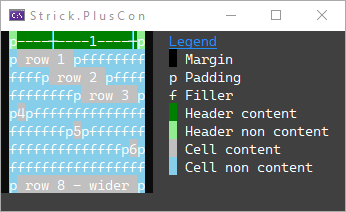
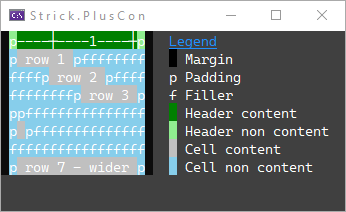
Grid: fix with HasContent and "empty" content; unit tests; doc updates

Changed region(s): [[0.0, 0.6509, 0.4624, 0.934], [0.0289, 0.4811, 0.1156, 0.6792], [0.1734, 0.566, 0.2601, 0.6792]]

diff --git a/Strick.PlusCon.Test/GridTests.cs b/Strick.PlusCon.Test/GridTests.cs
@@ -1,4 +1,6 @@
-using Strick.PlusCon.Models;
+using Microsoft.VisualStudio.TestTools.UnitTesting;
+
+using Strick.PlusCon.Models;
 
 using static Strick.PlusCon.Test.Expectations;
 
@@ -57,24 +59,24 @@ public class GridTests
 		CheckGridState(g, 2, 2);
 		Assert.AreEqual(7, g.Width);
 
-		CheckCellState(g.Rows[0].Cells[0], 0, 0, "", g.CellStyle, g.CellContentStyle, g.Columns[0].CellLayout);
+		CheckCellState(g.Rows[0].Cells[0], 0, 0, null, g.CellStyle, g.CellContentStyle, g.Columns[0].CellLayout);
 		g.CellStyle.BackColor = red;
-		CheckCellState(g.Rows[0].Cells[0], 0, 0, "", g.CellStyle, g.CellContentStyle, g.Columns[0].CellLayout);
+		CheckCellState(g.Rows[0].Cells[0], 0, 0, null, g.CellStyle, g.CellContentStyle, g.Columns[0].CellLayout);
 		g.Columns[0].CellStyle = new(green);
-		CheckCellState(g.Rows[0].Cells[0], 0, 0, "", g.Columns[0].CellStyle!, g.CellContentStyle, g.Columns[0].CellLayout);
+		CheckCellState(g.Rows[0].Cells[0], 0, 0, null, g.Columns[0].CellStyle!, g.CellContentStyle, g.Columns[0].CellLayout);
 		g.Rows[0].CellStyle = new(blue);
-		CheckCellState(g.Rows[0].Cells[0], 0, 0, "", g.Rows[0].CellStyle!, g.CellContentStyle, g.Columns[0].CellLayout);
+		CheckCellState(g.Rows[0].Cells[0], 0, 0, null, g.Rows[0].CellStyle!, g.CellContentStyle, g.Columns[0].CellLayout);
 		g.Rows[0].Cells[0].CellStyle = new(white);
-		CheckCellState(g.Rows[0].Cells[0], 0, 0, "", g.Rows[0].Cells[0].CellStyle!, g.CellContentStyle, g.Columns[0].CellLayout);
+		CheckCellState(g.Rows[0].Cells[0], 0, 0, null, g.Rows[0].Cells[0].CellStyle!, g.CellContentStyle, g.Columns[0].CellLayout);
 
 		g.CellContentStyle.BackColor = red;
-		CheckCellState(g.Rows[0].Cells[0], 0, 0, "", g.Rows[0].Cells[0].CellStyle!, g.CellContentStyle, g.Columns[0].CellLayout);
+		CheckCellState(g.Rows[0].Cells[0], 0, 0, null, g.Rows[0].Cells[0].CellStyle!, g.CellContentStyle, g.Columns[0].CellLayout);
 		g.Columns[0].ContentStyle = new(green);
-		CheckCellState(g.Rows[0].Cells[0], 0, 0, "", g.Rows[0].Cells[0].CellStyle!, g.Columns[0].ContentStyle!, g.Columns[0].CellLayout);
+		CheckCellState(g.Rows[0].Cells[0], 0, 0, null, g.Rows[0].Cells[0].CellStyle!, g.Columns[0].ContentStyle!, g.Columns[0].CellLayout);
 		g.Rows[0].ContentStyle = new(blue);
-		CheckCellState(g.Rows[0].Cells[0], 0, 0, "", g.Rows[0].Cells[0].CellStyle!, g.Rows[0].ContentStyle!, g.Columns[0].CellLayout);
+		CheckCellState(g.Rows[0].Cells[0], 0, 0, null, g.Rows[0].Cells[0].CellStyle!, g.Rows[0].ContentStyle!, g.Columns[0].CellLayout);
 		g.Rows[0].Cells[0].ContentStyle = new(white);
-		CheckCellState(g.Rows[0].Cells[0], 0, 0, "", g.Rows[0].Cells[0].CellStyle!, g.Rows[0].Cells[0].ContentStyle!, g.Columns[0].CellLayout);
+		CheckCellState(g.Rows[0].Cells[0], 0, 0, null, g.Rows[0].Cells[0].CellStyle!, g.Rows[0].Cells[0].ContentStyle!, g.Columns[0].CellLayout);
 
 		//g.Columns[0].CellLayout.HorizontalAlignment = HorizontalAlignment.Right;
 		//CheckCellState(g.Rows[0].Cells[0], g.Rows[0].Cells[0].CellStyle!, g.Rows[0].Cells[0].ContentStyle!, g.Columns[0].CellLayout);
@@ -129,7 +131,7 @@ public class GridTests
 		CheckGridState(g, 1, 1);
 		CheckColumnState(c1, 0, "c1", 2, 2, 4);
 		CheckRowState(r1, 0, 1);
-		CheckCellState(r1.Cells[0], 0, 0, "", g.CellStyle, g.CellContentStyle, g.Columns[0].CellLayout);
+		CheckCellState(r1.Cells[0], 0, 0, null, g.CellStyle, g.CellContentStyle, g.Columns[0].CellLayout);
 		r1.Cells[0].Content = "r1-c1";
 		CheckCellState(r1.Cells[0], 0, 0, "r1-c1", g.CellStyle, g.CellContentStyle, g.Columns[0].CellLayout);
 
@@ -138,7 +140,7 @@ public class GridTests
 		CheckColumnState(c2, 1, "c2", 2, 2, 4);
 		CheckRowState(g.Rows[0], 0, 2);
 		CheckCellState(r1.Cells[0], 0, 0, "r1-c1", g.CellStyle, g.CellContentStyle, g.Columns[0].CellLayout);
-		CheckCellState(r1.Cells[1], 0, 1, "", g.CellStyle, g.CellContentStyle, g.Columns[1].CellLayout);
+		CheckCellState(r1.Cells[1], 0, 1, null, g.CellStyle, g.CellContentStyle, g.Columns[1].CellLayout);
 		r1.Cells[1].Content = "r1-c2";
 		CheckCellState(r1.Cells[0], 0, 0, "r1-c1", g.CellStyle, g.CellContentStyle, g.Columns[0].CellLayout);
 		CheckCellState(r1.Cells[1], 0, 1, "r1-c2", g.CellStyle, g.CellContentStyle, g.Columns[1].CellLayout);
@@ -166,9 +168,9 @@ public class GridTests
 		CheckRowState(r1, 0, 2);
 		CheckRowState(r2, 1, 2);
 		CheckCellState(r1.Cells[0], 0, 0, "r1-c1", g.CellStyle, g.CellContentStyle, g.Columns[0].CellLayout);
-		CheckCellState(r1.Cells[1], 0, 1, "", g.CellStyle, g.CellContentStyle, g.Columns[1].CellLayout);
+		CheckCellState(r1.Cells[1], 0, 1, null, g.CellStyle, g.CellContentStyle, g.Columns[1].CellLayout);
 		CheckCellState(r2.Cells[0], 1, 0, "r2-c1", g.CellStyle, g.CellContentStyle, g.Columns[0].CellLayout);
-		CheckCellState(r2.Cells[1], 1, 1, "", g.CellStyle, g.CellContentStyle, g.Columns[1].CellLayout);
+		CheckCellState(r2.Cells[1], 1, 1, null, g.CellStyle, g.CellContentStyle, g.Columns[1].CellLayout);
 
 		Assert.IsTrue(g.Columns.Remove(c1));
 		CheckGridState(g, 1, 2);
@@ -180,17 +182,17 @@ public class GridTests
 		CheckGridState(g, 1, 2);
 		CheckRowState(r1, 0, 1);
 		CheckRowState(r2, 1, 1);
-		CheckCellState(r1.Cells[0], 0, 0, "", g.CellStyle, g.CellContentStyle, g.Columns[0].CellLayout);
-		CheckCellState(r2.Cells[0], 1, 0, "", g.CellStyle, g.CellContentStyle, g.Columns[0].CellLayout);
+		CheckCellState(r1.Cells[0], 0, 0, null, g.CellStyle, g.CellContentStyle, g.Columns[0].CellLayout);
+		CheckCellState(r2.Cells[0], 1, 0, null, g.CellStyle, g.CellContentStyle, g.Columns[0].CellLayout);
 
 		var r3 = g.AddRow();
 		CheckGridState(g, 1, 3);
 		CheckRowState(r1, 0, 1);
 		CheckRowState(r2, 1, 1);
 		CheckRowState(r3, 2, 1);
-		CheckCellState(r1.Cells[0], 0, 0, "", g.CellStyle, g.CellContentStyle, g.Columns[0].CellLayout);
-		CheckCellState(r2.Cells[0], 1, 0, "", g.CellStyle, g.CellContentStyle, g.Columns[0].CellLayout);
-		CheckCellState(r3.Cells[0], 2, 0, "", g.CellStyle, g.CellContentStyle, g.Columns[0].CellLayout);
+		CheckCellState(r1.Cells[0], 0, 0, null, g.CellStyle, g.CellContentStyle, g.Columns[0].CellLayout);
+		CheckCellState(r2.Cells[0], 1, 0, null, g.CellStyle, g.CellContentStyle, g.Columns[0].CellLayout);
+		CheckCellState(r3.Cells[0], 2, 0, null, g.CellStyle, g.CellContentStyle, g.Columns[0].CellLayout);
 
 		g.Rows.Clear();
 		CheckGridState(g, 1, 0);
@@ -229,9 +231,9 @@ public class GridTests
 		var r1 = g.AddRow();
 		CheckGridState(g, 3, 1);
 		CheckRowState(r1, 0, 3);
-		CheckCellState(r1.Cells[0], 0, 0, "", g.CellStyle, g.CellContentStyle, g.Columns[0].CellLayout);
-		CheckCellState(r1.Cells[1], 0, 1, "", g.CellStyle, g.CellContentStyle, g.Columns[1].CellLayout);
-		CheckCellState(r1.Cells[2], 0, 2, "", g.CellStyle, g.CellContentStyle, g.Columns[2].CellLayout);
+		CheckCellState(r1.Cells[0], 0, 0, null, g.CellStyle, g.CellContentStyle, g.Columns[0].CellLayout);
+		CheckCellState(r1.Cells[1], 0, 1, null, g.CellStyle, g.CellContentStyle, g.Columns[1].CellLayout);
+		CheckCellState(r1.Cells[2], 0, 2, null, g.CellStyle, g.CellContentStyle, g.Columns[2].CellLayout);
 
 		r1.Cells[0].Content = "r1-c1";
 		r1.Cells[1].Content = "r1-c2";
@@ -243,9 +245,9 @@ public class GridTests
 		var r2 = g.AddRow();
 		CheckGridState(g, 3, 2);
 		CheckRowState(r2, 1, 3);
-		CheckCellState(r2.Cells[0], 1, 0, "", g.CellStyle, g.CellContentStyle, g.Columns[0].CellLayout);
-		CheckCellState(r2.Cells[1], 1, 1, "", g.CellStyle, g.CellContentStyle, g.Columns[1].CellLayout);
-		CheckCellState(r2.Cells[2], 1, 2, "", g.CellStyle, g.CellContentStyle, g.Columns[2].CellLayout);
+		CheckCellState(r2.Cells[0], 1, 0, null, g.CellStyle, g.CellContentStyle, g.Columns[0].CellLayout);
+		CheckCellState(r2.Cells[1], 1, 1, null, g.CellStyle, g.CellContentStyle, g.Columns[1].CellLayout);
+		CheckCellState(r2.Cells[2], 1, 2, null, g.CellStyle, g.CellContentStyle, g.Columns[2].CellLayout);
 
 		r2.Cells[0].Content = "r2-c1";
 		r2.Cells[1].Content = "r2-c2";
@@ -257,9 +259,9 @@ public class GridTests
 		var r3 = g.AddRow();
 		CheckGridState(g, 3, 3);
 		CheckRowState(r3, 2, 3);
-		CheckCellState(r3.Cells[0], 2, 0, "", g.CellStyle, g.CellContentStyle, g.Columns[0].CellLayout);
-		CheckCellState(r3.Cells[1], 2, 1, "", g.CellStyle, g.CellContentStyle, g.Columns[1].CellLayout);
-		CheckCellState(r3.Cells[2], 2, 2, "", g.CellStyle, g.CellContentStyle, g.Columns[2].CellLayout);
+		CheckCellState(r3.Cells[0], 2, 0, null, g.CellStyle, g.CellContentStyle, g.Columns[0].CellLayout);
+		CheckCellState(r3.Cells[1], 2, 1, null, g.CellStyle, g.CellContentStyle, g.Columns[1].CellLayout);
+		CheckCellState(r3.Cells[2], 2, 2, null, g.CellStyle, g.CellContentStyle, g.Columns[2].CellLayout);
 
 		r3.Cells[0].Content = "r3-c1";
 		r3.Cells[1].Content = "r3-c2";
@@ -305,11 +307,11 @@ public class GridTests
 		CheckColumnState(col1, 0, "", 0, 0, 0);
 		CheckColHead(col1, 0, "", g.ColumnHeaderCellStyle, g.ColumnHeaderContentStyle, col1.CellLayout, "");
 		var r1 = g.AddRow();
-		CheckCellRendering(col1.Cells.ElementAt(0), 0, 0, "", g.CellStyle, g.CellContentStyle, col1.CellLayout, "");
+		CheckCellRendering(col1.Cells.ElementAt(0), 0, 0, null, g.CellStyle, g.CellContentStyle, col1.CellLayout, "");
 		CheckColHead(col1, 0, "", g.ColumnHeaderCellStyle, g.ColumnHeaderContentStyle, col1.CellLayout, "");
 
 		col1.Header.Content = "X";
-		CheckCellRendering(col1.Cells.ElementAt(0), 0, 0, "", g.CellStyle, g.CellContentStyle, col1.CellLayout, ForeColorWhite + " " + ForeColorReset);
+		CheckCellRendering(col1.Cells.ElementAt(0), 0, 0, null, g.CellStyle, g.CellContentStyle, col1.CellLayout, ForeColorWhite + " " + ForeColorReset);
 		CheckColHead(col1, 0, "X", g.ColumnHeaderCellStyle, g.ColumnHeaderContentStyle, col1.CellLayout, Underline + ForeColorWhite + "X" + ForeColorReset + UnderlineReset);
 
 		r1.Cells[0].Content = "Y";
@@ -382,17 +384,17 @@ public class GridTests
 		CheckCellRendering(col1.Cells.ElementAt(0), 0, 0, "foo", g.CellStyle, g.CellContentStyle, col1.CellLayout, $" {ForeColorWhite}    {ForeColorReset}{ForeColorWhite}foo{ForeColorReset}{ForeColorWhite} {ForeColorReset} ");
 		CheckCellRendering(col1.Cells.ElementAt(1), 1, 0, "longer", g.CellStyle, g.CellContentStyle, col1.CellLayout, $" {ForeColorWhite} {ForeColorReset}{ForeColorWhite}longer{ForeColorReset}{ForeColorWhite} {ForeColorReset} ");
 		CheckColHead(col1, 0, "X", g.ColumnHeaderCellStyle, g.ColumnHeaderContentStyle, col1.CellLayout, $" {Underline}{ForeColorWhite}      {ForeColorReset}{UnderlineReset}{Underline}{ForeColorWhite}X{ForeColorReset}{UnderlineReset}{Underline}{ForeColorWhite} {ForeColorReset}{UnderlineReset} ");
-		CheckCellRendering(col2.Cells.ElementAt(0), 0, 1, "", g.CellStyle, g.CellContentStyle, col2.CellLayout, $" {ForeColorWhite} {ForeColorReset} ");
-		CheckCellRendering(col2.Cells.ElementAt(1), 1, 1, "", g.CellStyle, g.CellContentStyle, col2.CellLayout, $" {ForeColorWhite} {ForeColorReset} ");
+		CheckCellRendering(col2.Cells.ElementAt(0), 0, 1, null, g.CellStyle, g.CellContentStyle, col2.CellLayout, $" {ForeColorWhite} {ForeColorReset} ");
+		CheckCellRendering(col2.Cells.ElementAt(1), 1, 1, null, g.CellStyle, g.CellContentStyle, col2.CellLayout, $" {ForeColorWhite} {ForeColorReset} ");
 		CheckColHead(col2, 1, "Y", g.ColumnHeaderCellStyle, g.ColumnHeaderContentStyle, col2.CellLayout, $" {Underline}{ForeColorWhite}Y{ForeColorReset}{UnderlineReset} ");
 
 		r2.ContentStyle = new(blue);
 		CheckCellRendering(col1.Cells.ElementAt(0), 0, 0, "foo", g.CellStyle, g.CellContentStyle, col1.CellLayout, $" {ForeColorWhite}    {ForeColorReset}{ForeColorWhite}foo{ForeColorReset}{ForeColorWhite} {ForeColorReset} ");
 		CheckCellRendering(col1.Cells.ElementAt(1), 1, 0, "longer", g.CellStyle, r2.ContentStyle, col1.CellLayout, $" {ForeColorWhite} {ForeColorReset}{ForeColorBlue}longer{ForeColorReset}{ForeColorWhite} {ForeColorReset} ");
 		CheckColHead(col1, 0, "X", g.ColumnHeaderCellStyle, g.ColumnHeaderContentStyle, col1.CellLayout, $" {Underline}{ForeColorWhite}      {ForeColorReset}{UnderlineReset}{Underline}{ForeColorWhite}X{ForeColorReset}{UnderlineReset}{Underline}{ForeColorWhite} {ForeColorReset}{UnderlineReset} ");
-		CheckCellRendering(col2.Cells.ElementAt(0), 0, 1, "", g.CellStyle, g.CellContentStyle, col2.CellLayout, $" {ForeColorWhite} {ForeColorReset} ");
+		CheckCellRendering(col2.Cells.ElementAt(0), 0, 1, null, g.CellStyle, g.CellContentStyle, col2.CellLayout, $" {ForeColorWhite} {ForeColorReset} ");
 		//this doesn't seem right -- seems like it should be blue. however, the cell has no content and the entire cell is padding. white is the padding (cell) color.
-		CheckCellRendering(col2.Cells.ElementAt(1), 1, 1, "", g.CellStyle, r2.ContentStyle, col2.CellLayout, $" {ForeColorWhite} {ForeColorReset} ");
+		CheckCellRendering(col2.Cells.ElementAt(1), 1, 1, null, g.CellStyle, r2.ContentStyle, col2.CellLayout, $" {ForeColorWhite} {ForeColorReset} ");
 		r2.Cells[1].Content = "Z";
 		CheckCellRendering(col2.Cells.ElementAt(1), 1, 1, "Z", g.CellStyle, r2.ContentStyle, col2.CellLayout, $" {ForeColorBlue}Z{ForeColorReset} ");
 		r2.Cells[1].Content = "";
@@ -402,9 +404,65 @@ public class GridTests
 		CheckCellRendering(col1.Cells.ElementAt(0), 0, 0, "foo", g.CellStyle, g.CellContentStyle, col1.CellLayout, $" {ForeColorWhite}    {ForeColorReset}{ForeColorWhite}foo{ForeColorReset}{ForeColorWhite} {ForeColorReset} ");
 		CheckCellRendering(col1.Cells.ElementAt(1), 1, 0, "longer", g.CellStyle, g.CellContentStyle, col1.CellLayout, $" {ForeColorWhite} {ForeColorReset}{ForeColorWhite}longer{ForeColorReset}{ForeColorWhite} {ForeColorReset} ");
 		CheckColHead(col1, 0, "X", g.ColumnHeaderCellStyle, g.ColumnHeaderContentStyle, col1.CellLayout, $" {Underline}{ForeColorWhite}      {ForeColorReset}{UnderlineReset}{Underline}{ForeColorWhite}X{ForeColorReset}{UnderlineReset}{Underline}{ForeColorWhite} {ForeColorReset}{UnderlineReset} ");
-		CheckCellRendering(col2.Cells.ElementAt(0), 0, 1, "", g.CellStyle, g.CellContentStyle, col2.CellLayout, $" {ForeColorWhite} {ForeColorReset} ");
+		CheckCellRendering(col2.Cells.ElementAt(0), 0, 1, null, g.CellStyle, g.CellContentStyle, col2.CellLayout, $" {ForeColorWhite} {ForeColorReset} ");
 		CheckCellRendering(col2.Cells.ElementAt(1), 1, 1, "", g.CellStyle, g.CellContentStyle, col2.CellLayout, $" {ForeColorWhite} {ForeColorReset} ");
 		CheckColHead(col2, 1, "Y", g.ColumnHeaderCellStyle, g.ColumnHeaderContentStyle, col2.CellLayout, $" {Underline}{ForeColorWhite}Y{ForeColorReset}{UnderlineReset} ");
+	}
+
+	[TestMethod]
+	public void CellPadding()
+	{
+		Grid g = new Grid();
+		g.CellContentStyle = new TextStyle();
+		g.CellStyle = new TextStyle();
+		g.ShowColumnHeaders = false;
+		var col1 = g.Columns.Add();
+		col1.CellLayout.MarginLeft = 0;
+		col1.CellLayout.MarginRight = 0;
+		col1.CellLayout.PaddingLeft = 0;
+		col1.CellLayout.PaddingRight = 0;
+		CheckColumnState(col1, 0, "", 0, 0, 0);
+		CheckColHead(col1, 0, "", g.ColumnHeaderCellStyle, g.ColumnHeaderContentStyle, col1.CellLayout, "");
+		var r1 = g.AddRow();
+		CheckCellRendering(col1.Cells.ElementAt(0), 0, 0, null, g.CellStyle, g.CellContentStyle, col1.CellLayout, "");
+		r1.Cells[0].Content = "";
+		CheckCellRendering(col1.Cells.ElementAt(0), 0, 0, "", g.CellStyle, g.CellContentStyle, col1.CellLayout, "");
+		r1.Cells[0].Content = " ";
+		CheckCellRendering(col1.Cells.ElementAt(0), 0, 0, " ", g.CellStyle, g.CellContentStyle, col1.CellLayout, " ");
+
+		col1.CellLayout.PaddingLeft = 1;
+		col1.CellLayout.PaddingRight = 1;
+		col1.CellLayout.PaddingLeftChar = 'p';
+		col1.CellLayout.PaddingRightChar = 'p';
+
+		r1.Cells[0].Content = null;
+		CheckCellRendering(col1.Cells.ElementAt(0), 0, 0, null, g.CellStyle, g.CellContentStyle, col1.CellLayout, "  ");
+		r1.Cells[0].Content = "";
+		CheckCellRendering(col1.Cells.ElementAt(0), 0, 0, "", g.CellStyle, g.CellContentStyle, col1.CellLayout, "pp");
+		r1.Cells[0].Content = " ";
+		CheckCellRendering(col1.Cells.ElementAt(0), 0, 0, " ", g.CellStyle, g.CellContentStyle, col1.CellLayout, "p p");
+		r1.Cells[0].Content = "x";
+		CheckCellRendering(col1.Cells.ElementAt(0), 0, 0, "x", g.CellStyle, g.CellContentStyle, col1.CellLayout, "pxp");
+
+		g.ShowColumnHeaders = true;
+		g.ColumnHeaderCellStyle = new TextStyle();
+		g.ColumnHeaderContentStyle = new TextStyle();
+		col1.Header.Content = "foo";
+		CheckColHead(col1, 0, "foo", g.ColumnHeaderCellStyle, g.ColumnHeaderContentStyle, col1.CellLayout, "pfoop");
+		r1.Cells[0].Content = null;
+		CheckCellRendering(col1.Cells.ElementAt(0), 0, 0, null, g.CellStyle, g.CellContentStyle, col1.CellLayout, "     ");
+		r1.Cells[0].Content = "";
+		CheckCellRendering(col1.Cells.ElementAt(0), 0, 0, "", g.CellStyle, g.CellContentStyle, col1.CellLayout, "pp   ");
+		r1.Cells[0].Content = " ";
+		CheckCellRendering(col1.Cells.ElementAt(0), 0, 0, " ", g.CellStyle, g.CellContentStyle, col1.CellLayout, "p p  ");
+		r1.Cells[0].Content = "x";
+		CheckCellRendering(col1.Cells.ElementAt(0), 0, 0, "x", g.CellStyle, g.CellContentStyle, col1.CellLayout, "pxp  ");
+		r1.Cells[0].Content = "bar";
+		CheckCellRendering(col1.Cells.ElementAt(0), 0, 0, "bar", g.CellStyle, g.CellContentStyle, col1.CellLayout, "pbarp");
+		CheckColHead(col1, 0, "foo", g.ColumnHeaderCellStyle, g.ColumnHeaderContentStyle, col1.CellLayout, "pfoop");
+		r1.Cells[0].Content = "long";
+		CheckCellRendering(col1.Cells.ElementAt(0), 0, 0, "long", g.CellStyle, g.CellContentStyle, col1.CellLayout, "plongp");
+		CheckColHead(col1, 0, "foo", g.ColumnHeaderCellStyle, g.ColumnHeaderContentStyle, col1.CellLayout, "pfoop ");
 	}
 
 	[TestMethod]
@@ -569,10 +627,16 @@ public class GridTests
 		TextStyleTests.CheckTextStyleEquality(cell.ContentStyleI, expectedContentStyle);
 		CheckLayoutEquality(expectedLayout, cell.LayoutI);
 
-		if (string.IsNullOrEmpty(expectedContent))
-		{ Assert.IsTrue(string.IsNullOrEmpty(cell.Content)); }
+		if (expectedContent == null)
+		{
+			Assert.AreEqual(null, cell.Content);
+			Assert.IsFalse(cell.HasContent);
+		}
 		else
-		{ Assert.AreEqual(expectedContent, cell.Content); }
+		{
+			Assert.IsTrue(cell.HasContent);
+			Assert.AreEqual(expectedContent, cell.Content);
+		}
 	}
 
 	private static void CheckCellRendering(GridCell cell, int expectedRowIndex, int expectedColIndex, string? expectedContent, TextStyle expectedCellStyle, TextStyle expectedContentStyle, GridCellLayout expectedLayout, string expectedRenderedContent)

diff --git a/Strick.PlusCon/Models/GridCellBase.cs b/Strick.PlusCon/Models/GridCellBase.cs
@@ -31,10 +31,12 @@ public abstract class GridCellBase
 	public string? Content { get; set; }
 
 	/// <summary>
-	/// Returns true if the cell's content is not null/empty.
+	/// Returns true if the cell's <see cref="Content"/> property is not null. 
+	/// <para>Note: a cell whose <see cref="Content"/> property is set to an empty string is considered 
+	/// to have content, and this property will return true.</para>
 	/// </summary>
 	[MemberNotNullWhen(true, nameof(Content))]
-	public bool HasContent => !string.IsNullOrEmpty(Content);
+	public bool HasContent => Content != null;
 
 	/// <summary>
 	/// The character used for "filler" when the cell is rendered for display in the grid. 
@@ -132,9 +134,7 @@ public abstract class GridCellBase
 		{
 			if (HasContent)
 			{
-				string rc;
-
-				rc = ContentStyleI.StyleText(Content);
+				string rc = ContentWidth > 0 ? ContentStyleI.StyleText(Content) : "";
 				return new string(LayoutI.MarginLeftChar, LayoutI.MarginLeft) + AlignContent(rc) + new string(LayoutI.MarginRightChar, LayoutI.MarginRight);
 			}
 

diff --git a/Strick.PlusCon.Test/Models/Examples/GridExamples.cs b/Strick.PlusCon.Test/Models/Examples/GridExamples.cs
@@ -112,15 +112,12 @@ internal static class GridExamples
 		row.Cells[0].HorizontalAlignment = HorizontalAlignment.Center;
 		row = grid.AddRow(" row 3 ");
 		row.Cells[0].HorizontalAlignment = HorizontalAlignment.Right;
-		grid.AddRow("4");
-		row = grid.AddRow("5");
-		row.Cells[0].HorizontalAlignment = HorizontalAlignment.Center;
-		row = grid.AddRow("6");
-		row.Cells[0].HorizontalAlignment = HorizontalAlignment.Right;
-		grid.AddRow("");
-		grid.AddRow(" row 8 - wider ");
+		grid.AddRow(""); //"empty" (zero-length) content
+		grid.AddRow(" ");
+		grid.AddRow(); //no content
+		grid.AddRow(" row 7 - wider ");
 
-		col.Header.Content = Ruler.GetH(col.ContentWidth, null, Ruler.HorizontalSegment);
+		col.Header.Content = Ruler.GetH(col.ContentWidth, colors: null);
 
 		foreach (GridCell cell in col.Cells)
 		{ cell.FillerChar = 'f'; }

diff --git a/docs/grid.md b/docs/grid.md
@@ -123,7 +123,9 @@ When a cell is rendered for display in the grid, the cell's content is styled
 using the cell's `ContentStyle` (or the content style inherited from the 
 row, column or grid), and is padded with the number of characters specified 
 by the `PaddingLeft`, `PaddingLeftChar`, `PaddingRight`, and `PaddingRightChar` 
-properties of the column's `CellLayout`. 
+properties of the column's `CellLayout`. If the cell has NO content 
+(the cell's `Content` property is null), the cell will contain NO padding 
+(the padding is considered Content padding, not cell padding). 
 The cell may additionally contain "filler" so that the cell's width 
 meets the widest cell in the column. The character used for the cell's filler 
 can be set via the `FillerChar` property. The cell is also padded with the 
@@ -250,15 +252,12 @@ row = grid.AddRow(" row 2 ");
 row.Cells[0].HorizontalAlignment = HorizontalAlignment.Center;
 row = grid.AddRow(" row 3 ");
 row.Cells[0].HorizontalAlignment = HorizontalAlignment.Right;
-grid.AddRow("4");
-row = grid.AddRow("5");
-row.Cells[0].HorizontalAlignment = HorizontalAlignment.Center;
-row = grid.AddRow("6");
-row.Cells[0].HorizontalAlignment = HorizontalAlignment.Right;
-grid.AddRow("");
-grid.AddRow(" row 8 - wider ");
+grid.AddRow(""); //"empty" (zero-length) content
+grid.AddRow(" ");
+grid.AddRow(); //no content
+grid.AddRow(" row 7 - wider ");
 
-col.Header.Content = Ruler.GetH(col.ContentWidth, null, Ruler.HorizontalSegment);
+col.Header.Content = Ruler.GetH(col.ContentWidth, colors: null);
 
 foreach (GridCell cell in col.Cells)
 { cell.FillerChar = 'f'; }
